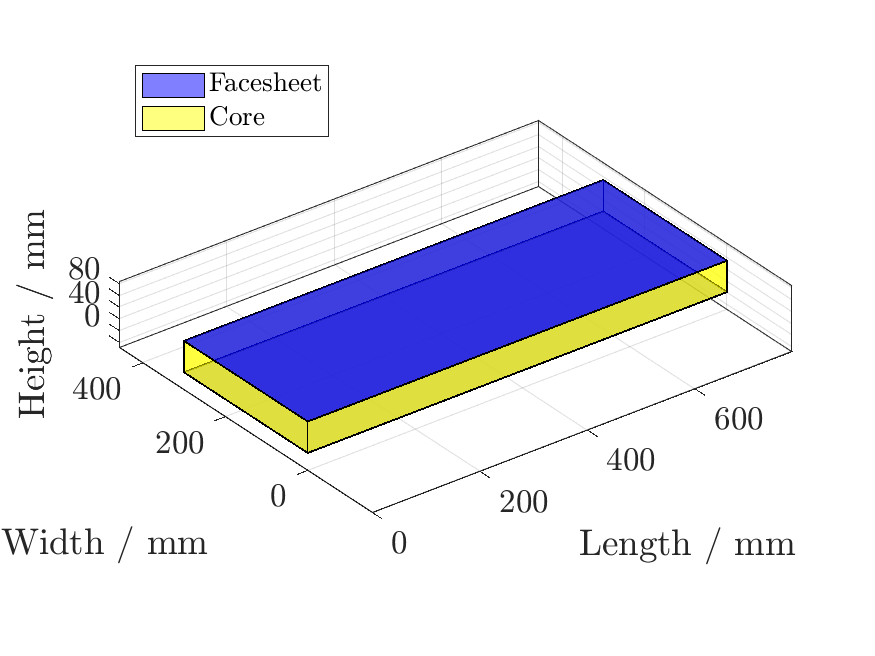
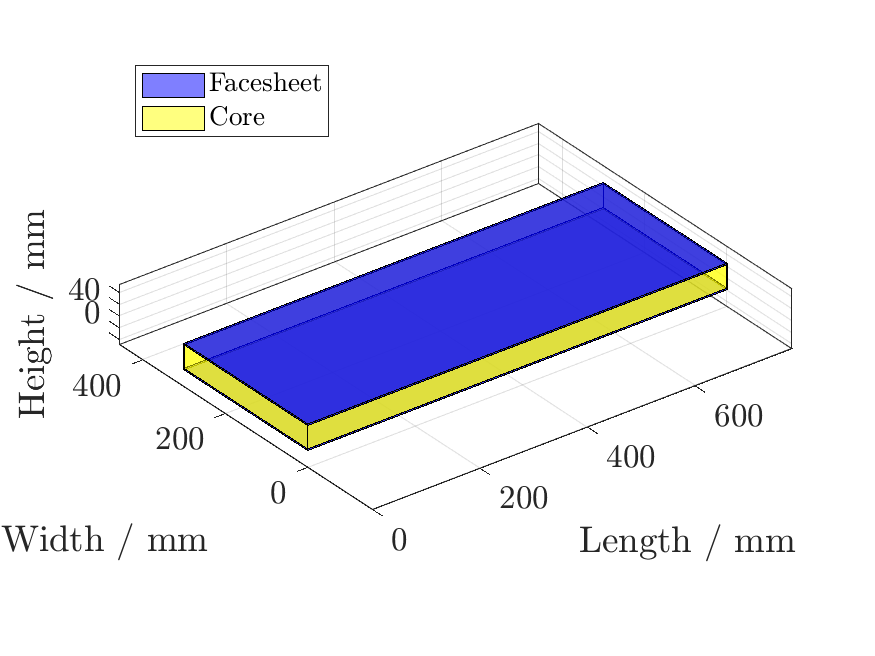
Updated GFRP, Al sandwiches

diff --git a/Monocoque/Side_Impact_Structure/TestStudy_Aluminium_SandwichStructure.m b/Monocoque/Side_Impact_Structure/TestStudy_Aluminium_SandwichStructure.m
@@ -20,10 +20,10 @@ close all
 layup_iteration_0_s = [0 0 90 0 -45 45 0 -45 45 0];
 [A_0, B_0, D_0, ABD_0, Q_0, thickness_0] = ABD(layup_iteration_0_s);
 
-thickness_0=4.5e-3;
+thickness_0=1.5e-3;
 L = 1500e-3;% Length of the structure in m
 b = 300e-3;% Depth of the beam, i.e. about the axis of bending in m
-c = 50e-3;% Thickness of the foam core
+c = 15e-3;% Thickness of the foam core
 
 %% Dimensions and properties
 E_c = psiToPa(65e3);% Modulus of the foam core in Pa

diff --git a/Monocoque/Side_Impact_Structure/TestStudy_Glass_Fibre_SandwichStructure.m b/Monocoque/Side_Impact_Structure/TestStudy_Glass_Fibre_SandwichStructure.m
@@ -22,7 +22,7 @@ layup_iteration_0_s = [0 0 90 -45 45 0];
 
 L = 1500e-3;% Length of the structure in m
 b = 300e-3;% Depth of the beam, i.e. about the axis of bending in m
-c = 50e-3;% Thickness of the foam core
+c = 10e-3;% Thickness of the foam core
 
 %% Dimensions and properties
 E_c = psiToPa(65e3);% Modulus of the foam core in Pa
